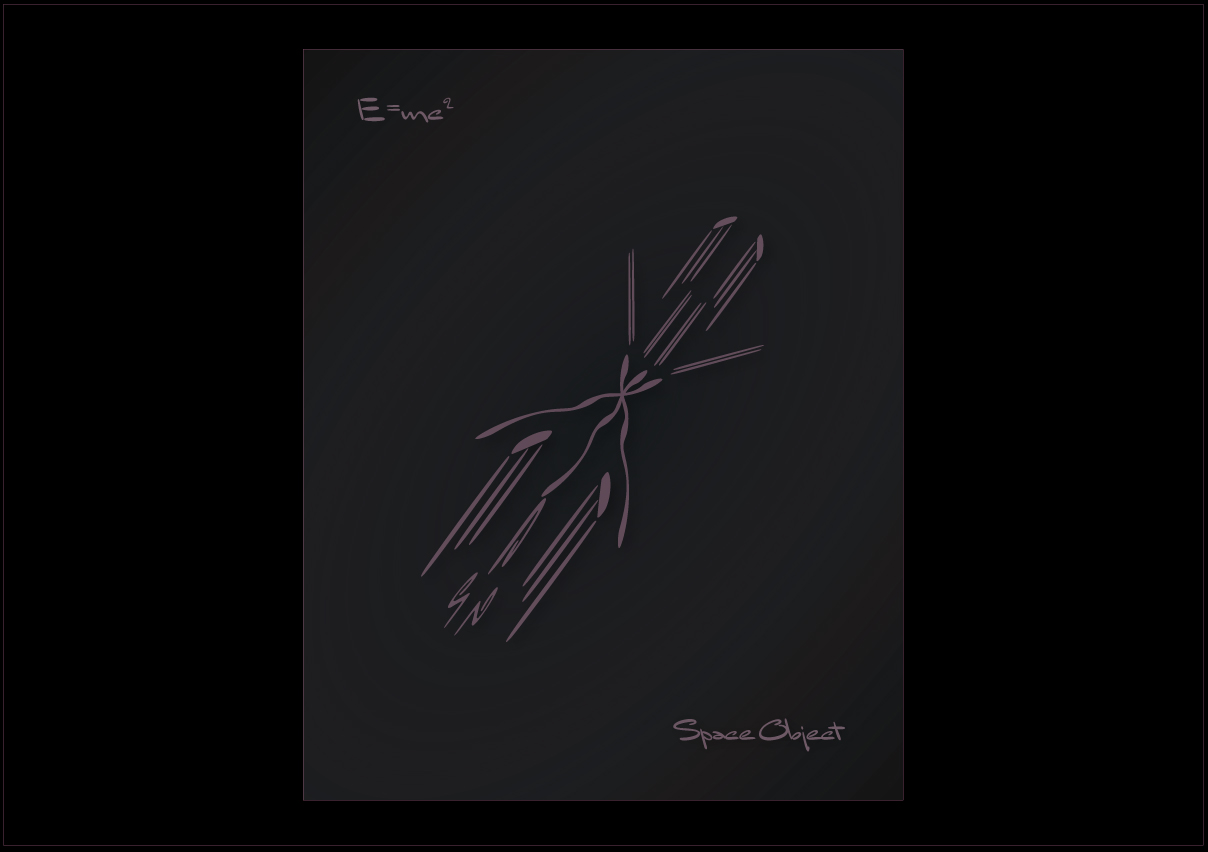
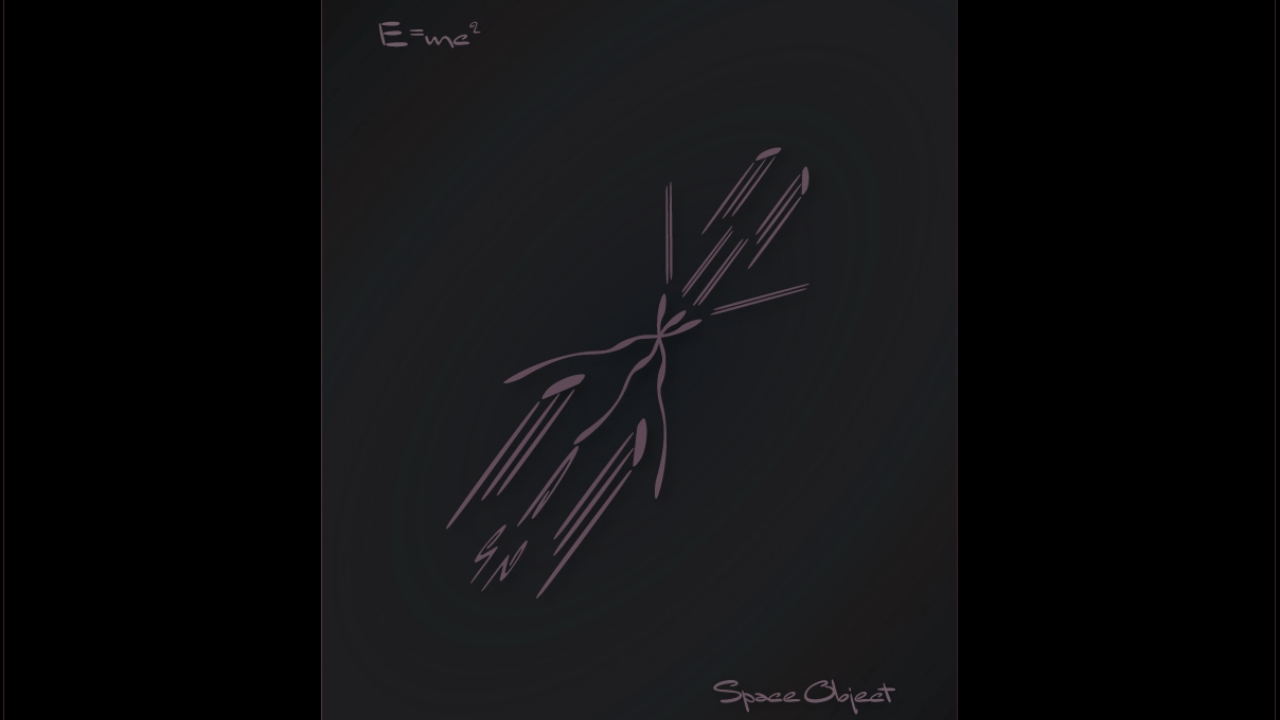
Update picture layout by adding horizontal alignment to Space-Object image

diff --git a/src/app/(main)/pictures/page.tsx b/src/app/(main)/pictures/page.tsx
@@ -10,7 +10,7 @@ const pictures = [
   { src: "/picturesGallery/IMG_7285.JPG" },
   { src: "/picturesGallery/Point.jpg", horizontal: true },
   { src: "/picturesGallery/Science.jpg", horizontal: true },
-  { src: "/picturesGallery/Space-Object.jpg" },
+  { src: "/picturesGallery/Space-Object.jpg", horizontal: true },
   { src: "/picturesGallery/L_1.png", horizontal: true },
   { src: "/picturesGallery/fuguInquisition.PNG" },
   { src: "/picturesGallery/komarik.jpeg", horizontal: true },
